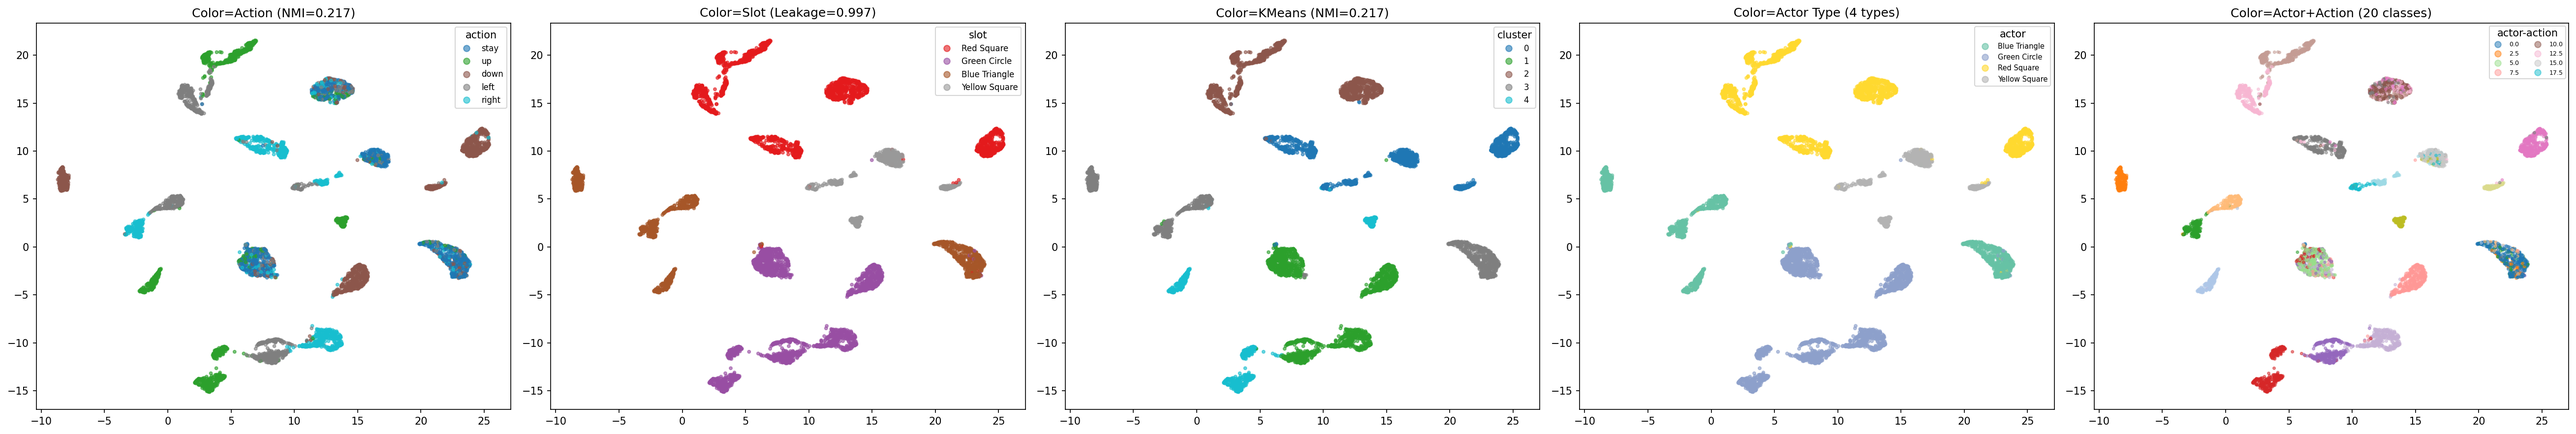
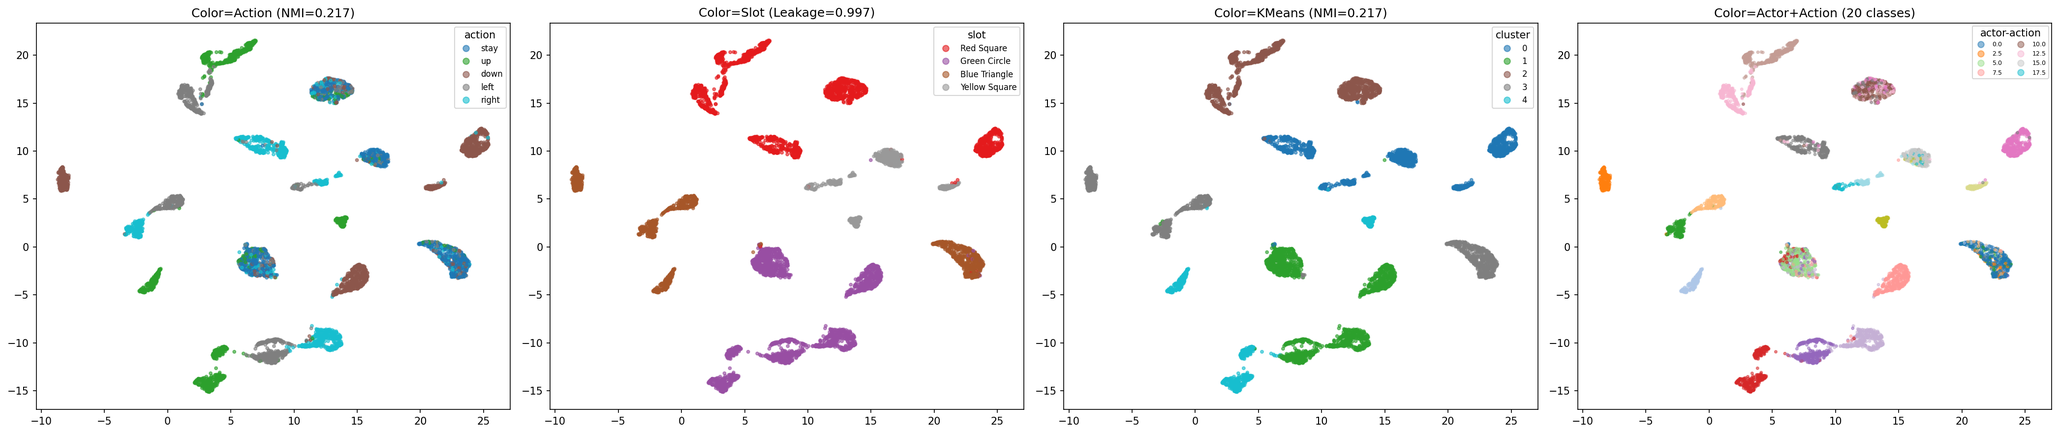
UMAP: 删除与 Slot 图重复的 Actor Type 图, 精简为 4 图
合成数据中 slot 与 actor_type (形状+颜色) 一一对应, 两组着色完全相同。
删除冗余的 Actor Type 图, 保持 4 张 UMAP:
1. Color=Action (5 动作)
2. Color=Slot (4 个 actor, 带名称)
3. Color=KMeans (无监督聚类)
4. Color=Actor+Action (20 复合类别)

diff --git a/lam/scripts/eval_v10.py b/lam/scripts/eval_v10.py
@@ -204,8 +204,9 @@ def main():
         reducer = umap.UMAP(random_state=args.seed, n_neighbors=30, min_dist=0.3)
         z_2d = reducer.fit_transform(z_actor)
 
-        # 5 张图: action / slot / KMeans / actor_type / actor-action
-        fig, axes = plt.subplots(1, 5, figsize=(35, 6))
+        # 4 张图: action / slot / KMeans / actor-action
+        # 注: 合成数据中 slot 与 actor_type 一一对应, 故不单独画 actor_type
+        fig, axes = plt.subplots(1, 4, figsize=(28, 6))
 
         # 1. Color by action
         scatter1 = axes[0].scatter(z_2d[:, 0], z_2d[:, 1], c=actions, cmap="tab10",
@@ -232,26 +233,14 @@ def main():
         axes[2].set_title(f"Color=KMeans (NMI={nmi_overall:.3f})")
         axes[2].legend(*scatter3.legend_elements(), title="cluster", loc="best", fontsize=8)
 
-        # 4. Color by actor type (shape+color)
-        unique_types = np.unique(actor_types)
-        type_to_int = {t: i for i, t in enumerate(unique_types)}
-        type_ints = np.array([type_to_int[t] for t in actor_types])
-        scatter4 = axes[3].scatter(z_2d[:, 0], z_2d[:, 1], c=type_ints, cmap="Set2",
-                                    s=8, alpha=0.6)
-        axes[3].set_title(f"Color=Actor Type ({len(unique_types)} types)")
-        legend4 = axes[3].legend(*scatter4.legend_elements(),
-                                 title="actor", loc="best", fontsize=7)
-        for t, name in zip(legend4.get_texts(), unique_types[:len(legend4.get_texts())]):
-            t.set_text(name)
-
-        # 5. Color by actor-action composite
+        # 4. Color by actor-action composite (4 actors × 5 actions = 20 classes)
         unique_aa = np.unique(actor_action_labels)
         aa_to_int = {t: i for i, t in enumerate(unique_aa)}
         aa_ints = np.array([aa_to_int[t] for t in actor_action_labels])
-        scatter5 = axes[4].scatter(z_2d[:, 0], z_2d[:, 1], c=aa_ints, cmap="tab20",
+        scatter5 = axes[3].scatter(z_2d[:, 0], z_2d[:, 1], c=aa_ints, cmap="tab20",
                                     s=6, alpha=0.5)
-        axes[4].set_title(f"Color=Actor+Action ({len(unique_aa)} classes)")
-        axes[4].legend(*scatter5.legend_elements(),
+        axes[3].set_title(f"Color=Actor+Action ({len(unique_aa)} classes)")
+        axes[3].legend(*scatter5.legend_elements(),
                        title="actor-action", loc="best", fontsize=6,
                        ncol=2)
 
@@ -261,7 +250,6 @@ def main():
         plt.close()
         print(f"\n  UMAP saved: {umap_path}")
         results["umap_path"] = umap_path
-        results["n_actor_types"] = len(unique_types)
         results["n_actor_action_classes"] = len(unique_aa)
     except ImportError:
         print("\n  (umap-learn not installed, skipping visualization)")
